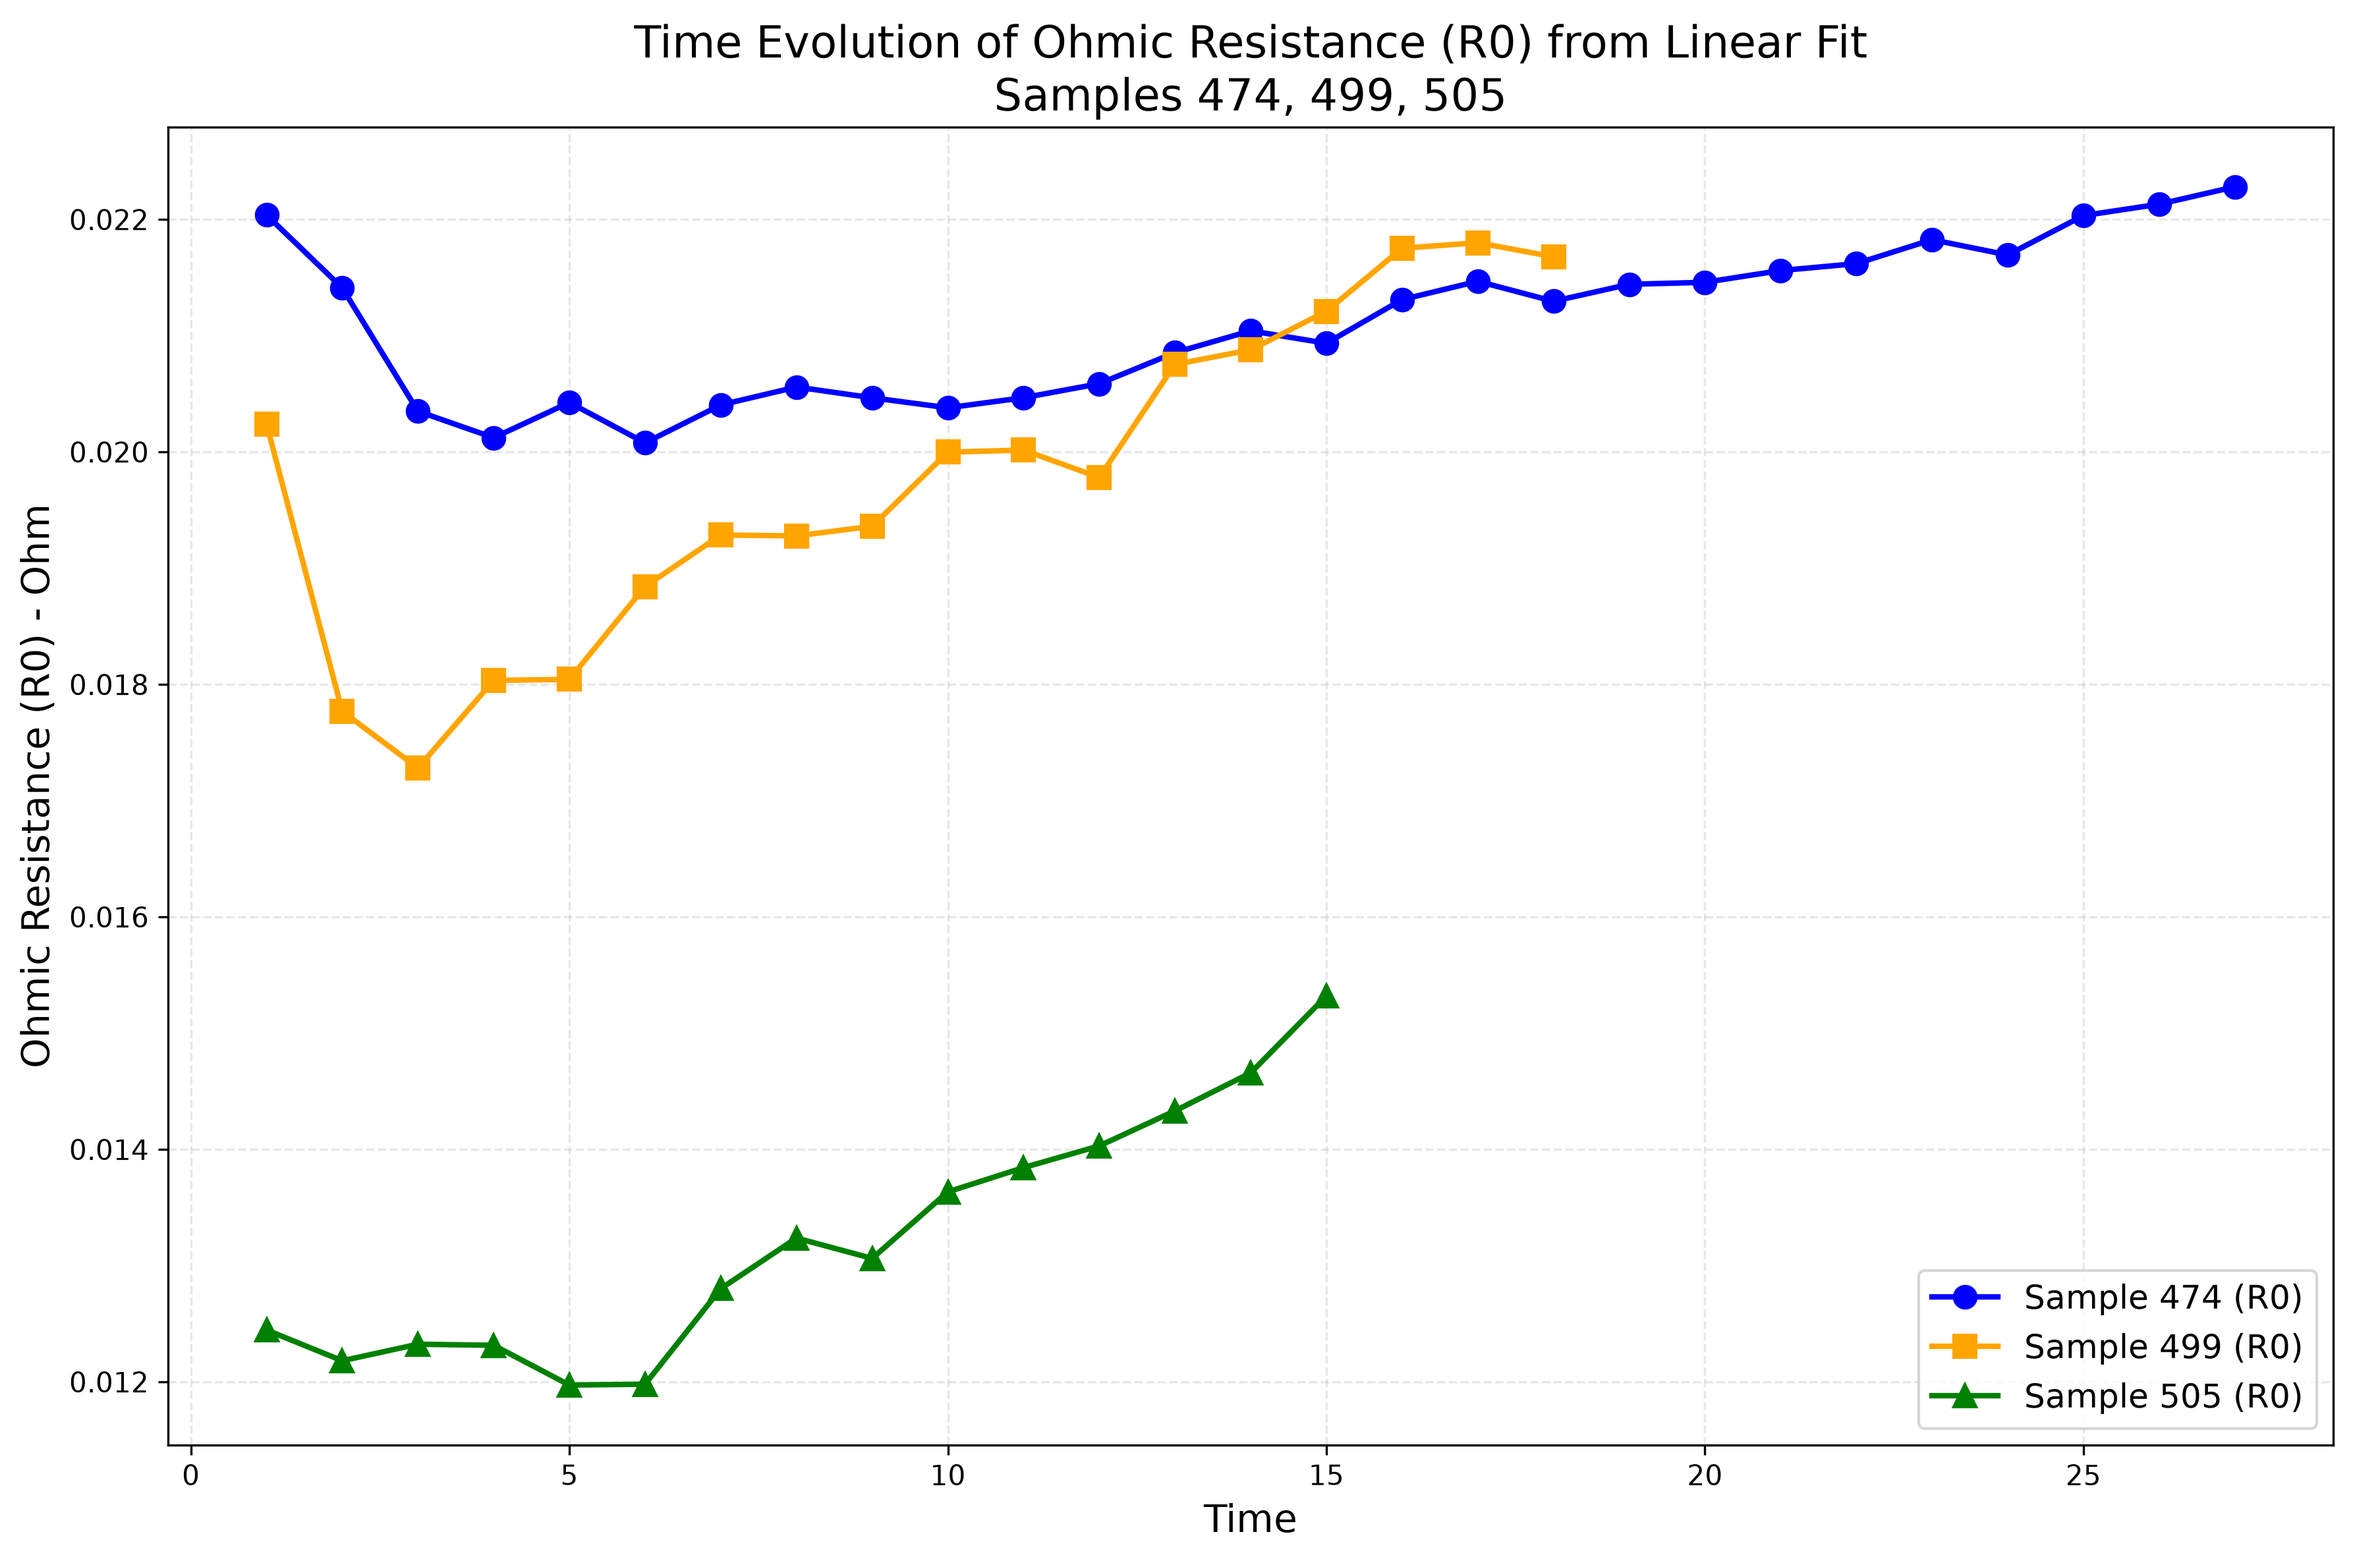
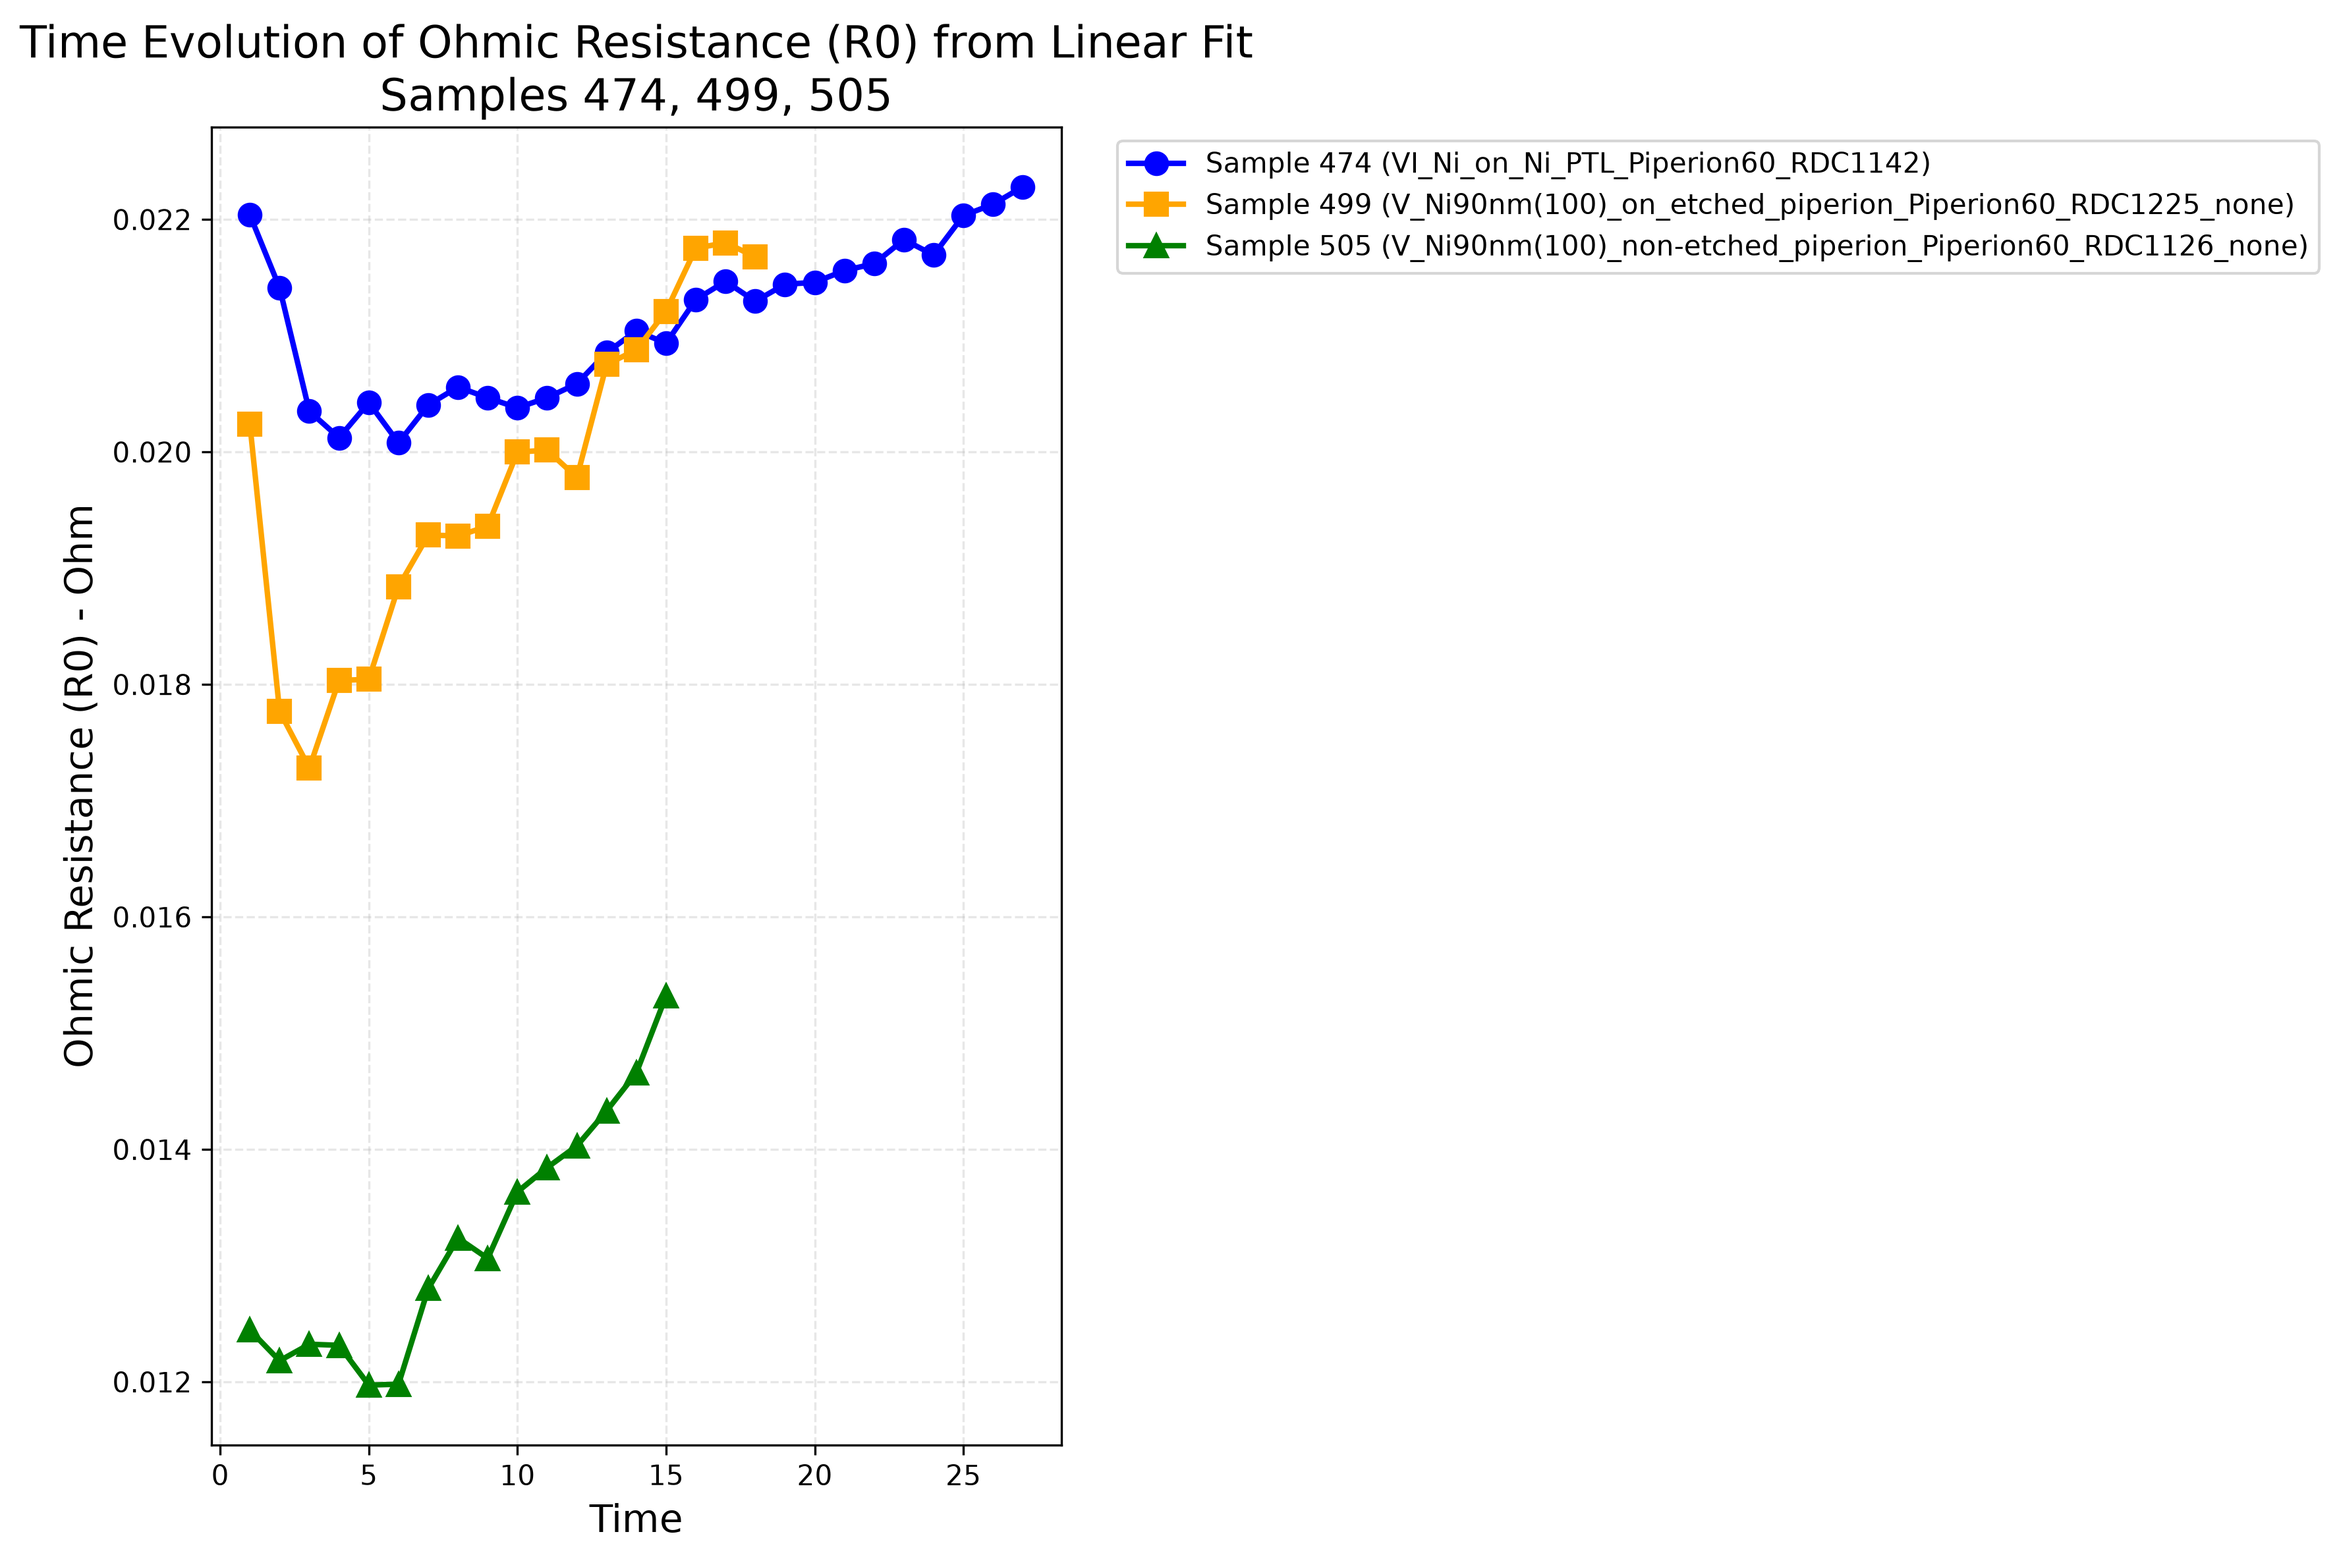
Update AGENTS.md with Google Sheets reference and sample naming
- Added Google Sheets electrolyzer_samples (ID: 1ycoCdaol3zYWx8PDTvrI30eZV0nuC7ooFpEvz9qOlds) as primary source for sample names
- Require connecting sample numbers to Sample Name from the sheet
- Require legends in comparison plots to include both sample number and sample name
- Regenerated comparison graphs with sample names in legends:
  - ohmic_resistance_time_evolution_comparison.png
  - tafel_slopes_time_evolution_comparison.png

diff --git a/AGENTS.md b/AGENTS.md
@@ -28,3 +28,5 @@
 - **For AEMs EIS dedicated analysis**: For new samples, work in the respective sample folder (`AEMs/sample_XXX/`). Always create ohmic resistance (R0), capacitance (C1, C2, C3), and Tafel analysis using the dedicated linear fit Python scripts: `c1_linear_fit_analysis.py`, `r0_linear_fit_analysis.py`, `c2_r2_c3_r3_linear_fit_analysis.py`, and `tafel_analysis_all_samples.py`. Add the new sample ID to the `SAMPLES` list in each script, run them, and ensure all output folders are created inside the sample's directory. Push all changes to main branch.
 
 - **For EIS CSV files from eisyFIT**: The `Time` column (capital T) represents the time evolution of fitted parameters. The `time/s` column (lowercase with /s) represents individual measurement timestamps. When a user requests "time evolution of parameters", plot against the `Time` column unless explicitly stated otherwise.
+
+- **Sample naming reference**: Use the Google Sheets file `electrolyzer_samples` (ID: `1ycoCdaol3zYWx8PDTvrI30eZV0nuC7ooFpEvz9qOlds`) as the primary source for sample names. Connect sample numbers from file/folder names to their `Sample Name` in this sheet. In comparison plots between samples, include legends with both the sample number and the sample name from the Google table.
